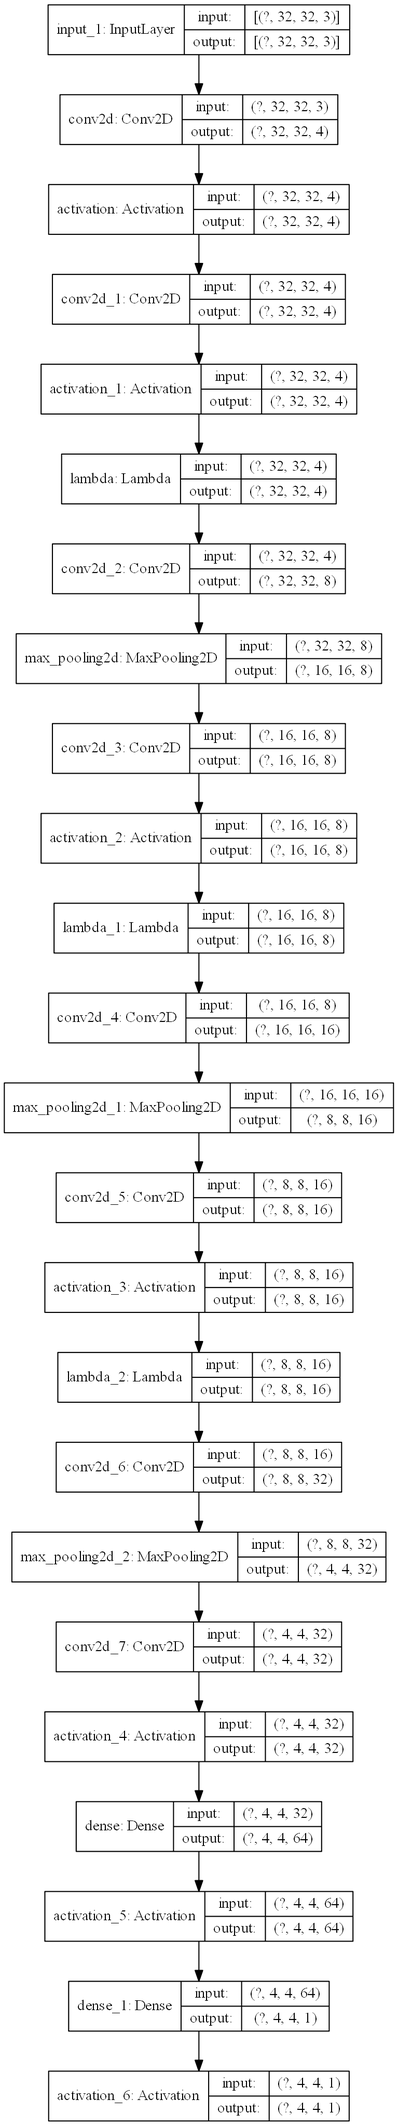
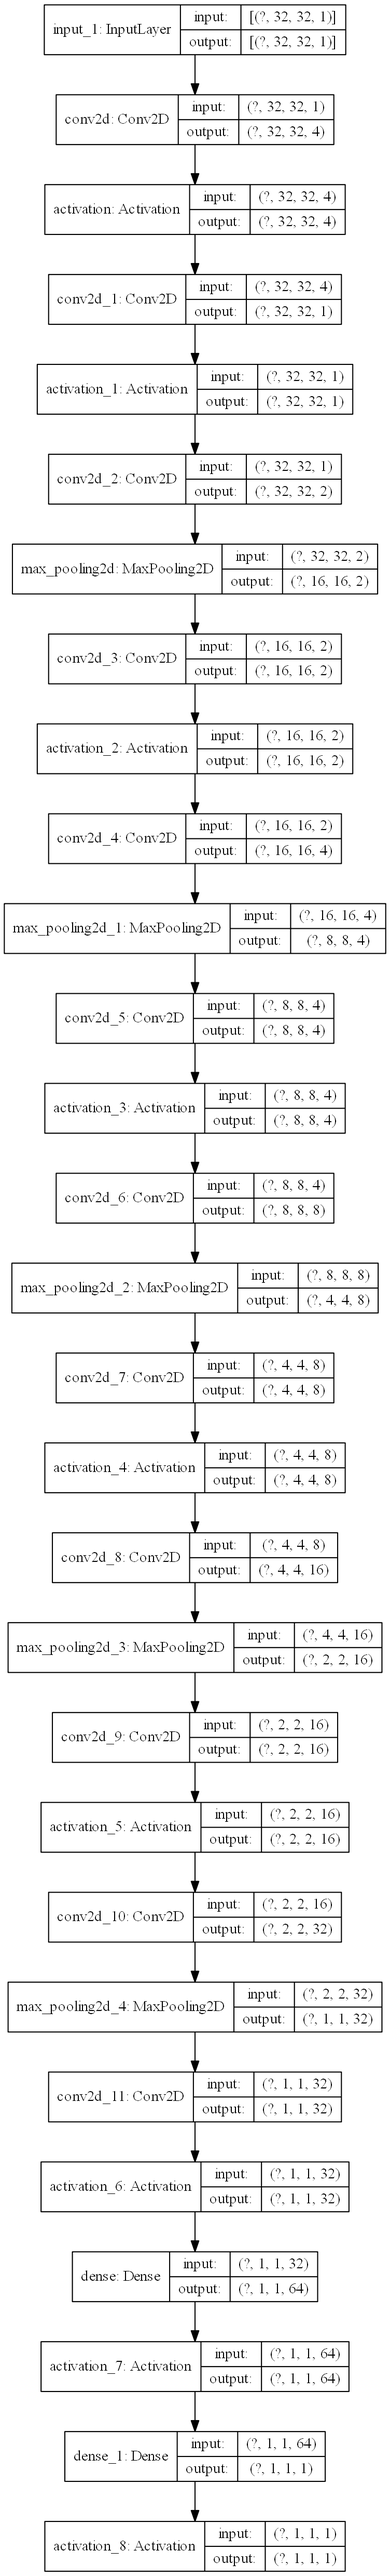
update model plots

diff --git a/config.py b/config.py
@@ -2,7 +2,7 @@ import tensorflow as tf
 
 BUFFER_SIZE = 60000
 batch_size = 8
-resolution = 16
+resolution = 32
 
 EPOCHS = 50
 num_examples_to_generate = 16
